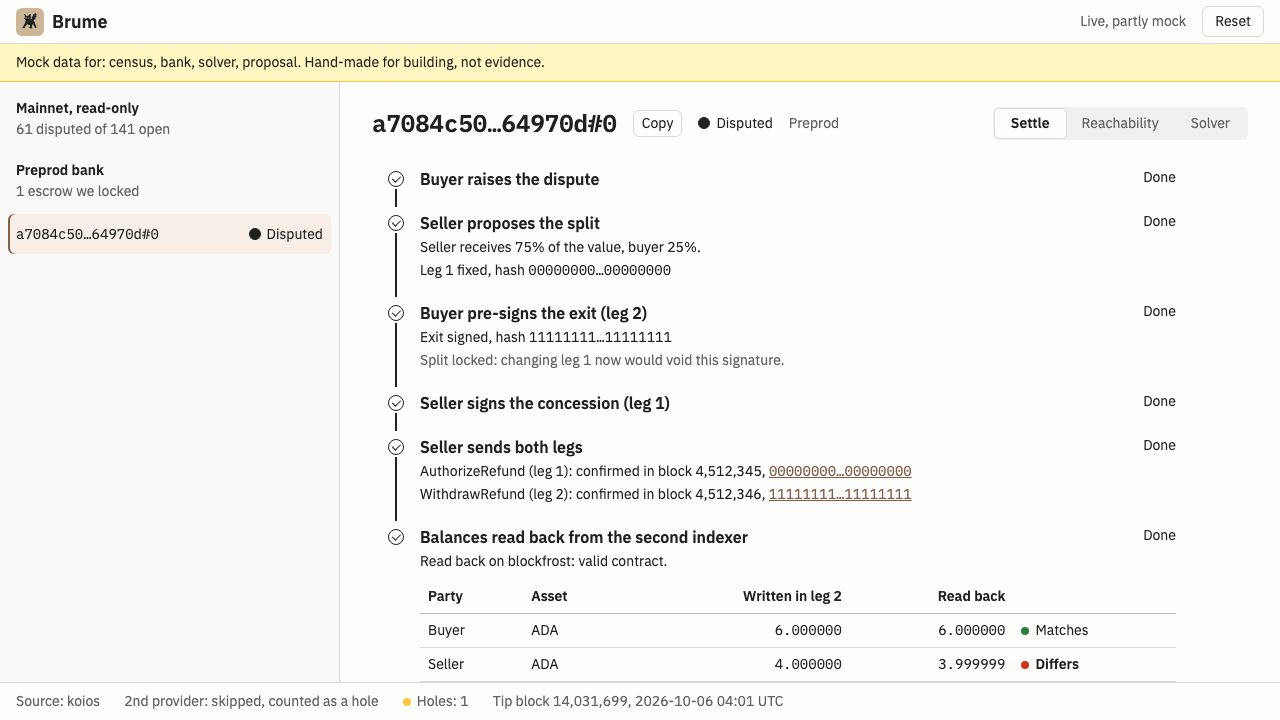
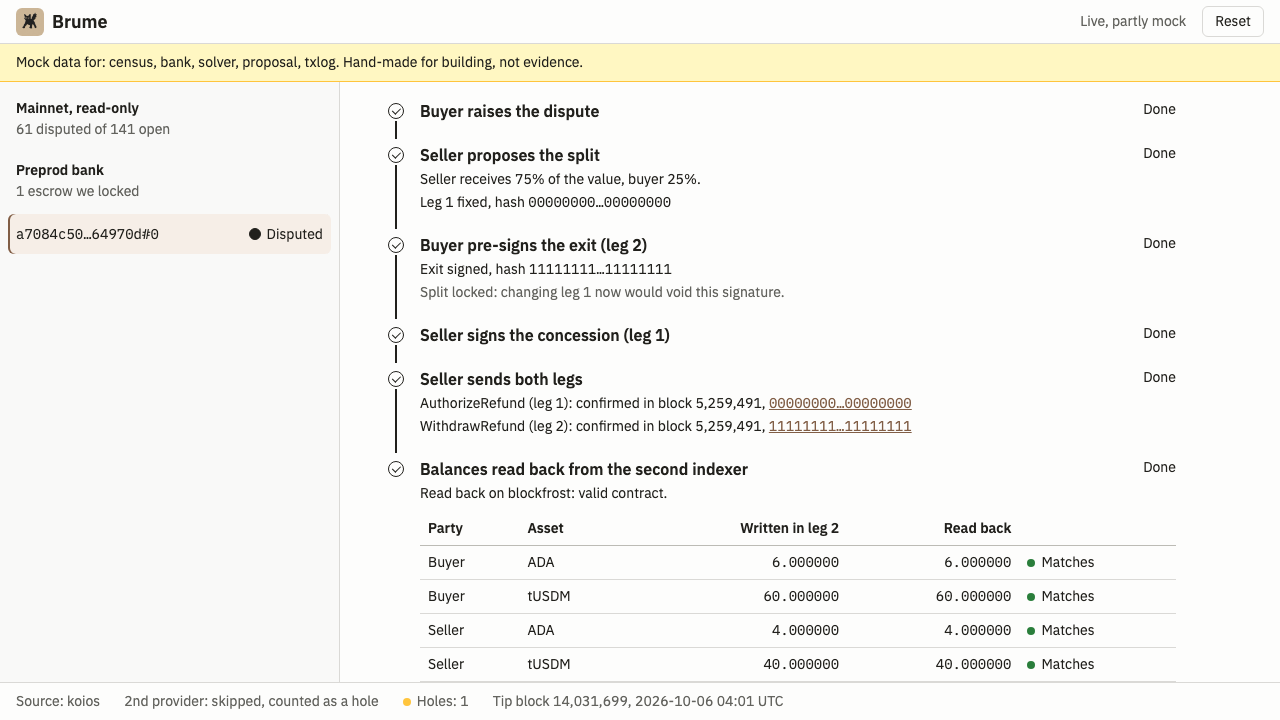
feat(ui): follow the 202 submit through the txlog, show agent errors as sentences, sign out/proposals files, token decimals

diff --git a/docs/app.js b/docs/app.js
@@ -43,10 +43,13 @@ async function load(kind, ref, net) {
   return json[kind] ?? json
 }
 
+// The agent answers errors as {"error": "<one readable sentence>"}, shown as is; a 202 (submit) has no body.
 async function post(path, body) {
   const res = await fetch(`/api/${path}`, { method: 'POST', headers: { 'content-type': 'application/json' }, body: JSON.stringify(body) })
-  if (!res.ok) throw new Error(`/api/${path} answered HTTP ${res.status}: ${await res.text()}`)
-  return res.json()
+  const text = await res.text()
+  const json = text && res.headers.get('content-type')?.includes('json') ? JSON.parse(text) : null
+  if (!res.ok) throw new Error(json?.error ?? (text || `/api/${path} answered HTTP ${res.status}`))
+  return json
 }
 
 // The preprod bank has no shared mock: in mock mode it is the escrow the mock proposal targets.
@@ -257,7 +260,8 @@ async function reachView(row) {
 
 /* Settle: SPEC-TRANSACTIONS §4 order, Carbon progress indicator glyphs, GOV.UK task-list statuses */
 
-const signCommand = role => `pnpm sign --role ${role} proposal.json`
+// The agent writes the proposal to out/proposals/<hash>_<index>.json ('#' → '_'); the seller's run also sends both legs.
+const signCommand = (role, ref) => `pnpm sign --role ${role} out/proposals/${ref.replace('#', '_')}.json`
 
 // Live m:ss since the current wait began. Each re-render makes a new span; the old one stops itself once detached.
 function elapsed(wait) {
@@ -347,7 +351,7 @@ function walletSign(wallet, role, ctx) {
 }
 
 function waitingFor(role, ctx) {
-  const cmd = signCommand(role)
+  const cmd = signCommand(role, ctx.row.ref)
   return h('div', { class: 'cmd' },
     h('code', { class: 'mono' }, cmd), copyButton(cmd),
     h('span', { class: 'hint' }, 'Waiting for the signed file', live && elapsed(ctx.wait)),
@@ -378,7 +382,8 @@ function sendButton(row, rerun) {
   const btn = h('button', { class: 'btn primary', type: 'button', disabled: !live, onclick: async () => {
     btn.disabled = true
     btn.textContent = 'Sending…'
-    try { rerun(await post(`proposal/${enc(row.ref)}/submit`, { escrowRef: row.ref })) }
+    // The agent answers 202 at once and submits in the background (1–2 min); progress arrives through GET /api/txlog.
+    try { await post(`proposal/${enc(row.ref)}/submit`, { escrowRef: row.ref }); rerun({ submitted: true }) }
     catch (x) { err.hidden = false; err.textContent = x.message; btn.disabled = false; btn.textContent = 'Send both legs' }
   } }, 'Send both legs')
   return h('div', {}, btn, !live && h('span', { class: 'hint' }, 'Runs in live mode'), err)
@@ -405,7 +410,8 @@ function settleSteps(row, proposal, log, rerun, band, wait) {
   const leg1 = entry('leg1')
   const leg2 = entry('leg2')
   const refused = [leg1, leg2].find(e => e?.status === 'refused')
-  const validTo = live && !leg1 && proposal?.leg1?.validToMs // countdown only matters until leg 1 is sent
+  const submitted = !leg1 && !leg2 && wait.submittedAt // 202 received, no leg in the txlog yet: no second Send button
+  const validTo = live && !leg1 && !submitted && proposal?.leg1?.validToMs // countdown only matters until leg 1 is sent
   const validity = validTo ? h('p', { class: 'hint' }, countdown(validTo, () => rerun())) : null
   const steps = [
     { label: 'Buyer raises the dispute', done: ['Disputed', 'RefundRequested'].includes(row.state) || !!proposal,
@@ -423,13 +429,15 @@ function settleSteps(row, proposal, log, rerun, band, wait) {
     { label: `${cap(conceder)} signs the concession (leg 1)`, done: signed(conceder), waiting: `Waiting for ${conceder}`,
       body: signed(conceder) ? [] : [waitingFor(conceder, ctx), validity] },
     { label: `${cap(conceder)} sends both legs`, done: !!(leg1?.block && leg2?.block), error: refused,
-      waiting: leg1 || leg2 ? 'Waiting for confirmation' : 'Ready to send',
+      waiting: leg1 || leg2 ? 'Waiting for confirmation' : submitted ? 'Submitted' : 'Ready to send',
       body: refused
         ? [h('p', {}, `${cap(refusal(refused))}. Start over on the next bank escrow.`)]
         : leg1 || leg2
           ? [[leg1, leg2].filter(Boolean).map(e => h('p', { class: 'hash' }, `${e.step}: `, h('span', { 'data-cue': e.block && `block ${e.step}` }, outcome(e)), ', ',
               h('span', { 'data-cue': `hash ${e.step}` }, txLink(e.txHash))))]
-          : [sendButton(row, rerun), validity] },
+          : submitted
+            ? [h('p', {}, 'Submitted to the agent. Waiting for the first leg to appear on preprod.')]
+            : [sendButton(row, rerun), validity] },
     { label: 'Balances read back from the second indexer', done: !!leg2?.readback, waiting: 'Waiting for read-back',
       body: leg2?.readback ? [
         h('p', {}, `Read back on ${leg2.readback.provider}: ${leg2.readback.validContract ? 'valid contract' : 'contract not valid'}.`),
@@ -444,13 +452,17 @@ function settleSteps(row, proposal, log, rerun, band, wait) {
   return steps
 }
 
-// One escrow's native quantities (DESIGN §10.1). ADA has 6 decimals; other tokens stay in base units until their decimals are pinned in shared/constants.ts.
+// One escrow's native quantities (DESIGN §10.1), in display units. A token missing here stays in base units.
+const DECIMALS = { lovelace: 6, [USDM]: 6, [TUSDM]: 6 } // = DECIMALS in shared/constants.ts (the browser cannot import it)
+
 function qty(unit, q) {
-  if (unit !== 'lovelace') return q.toLocaleString('en')
-  const sign = q < 0n ? '-' : ''
+  const d = DECIMALS[unit]
+  if (d === undefined) return q.toLocaleString('en')
+  const scale = 10n ** BigInt(d)
   const abs = q < 0n ? -q : q
-  return `${sign}${(abs / 1_000_000n).toLocaleString('en')}.${String(abs % 1_000_000n).padStart(6, '0')}`
+  return `${q < 0n ? '-' : ''}${(abs / scale).toLocaleString('en')}.${String(abs % scale).padStart(d, '0')}`
 }
+const unitLabel = unit => DECIMALS[unit] === undefined ? `${assetName(unit)} (base units)` : assetName(unit)
 
 // Carbon data-table pattern. What leg 2 wrote for each party (Proposal.payout) against what the second indexer reads back
 // (readback.balances, taken as the amount each party received from leg 2): the split landed as signed, or it did not.
@@ -462,7 +474,7 @@ function renderBalances(written, readBack) {
       const cue = col => `amount ${party} ${unit} ${col}`
       return h('tr', {},
         h('td', {}, cap(party)),
-        h('td', {}, unit === 'lovelace' ? 'ADA' : `${assetName(unit)} (base units)`),
+        h('td', {}, unitLabel(unit)),
         h('td', { class: 'num mono', 'data-cue': cue('written') }, qty(unit, w)),
         h('td', { class: 'num mono', 'data-cue': cue('read') }, qty(unit, r)),
         h('td', { class: w === r ? 'match ok' : 'match off' }, w === r ? 'Matches' : 'Differs'))
@@ -542,7 +554,6 @@ async function settleView(row) {
   const panel = h('div', { class: 'settle' })
   const solver = await load('solver', row.ref)
   const band = solver.ref === row.ref ? solver.bands.find(b => b.horizonDays === 30 && b.feasible !== false) : null
-  let sent = [] // the submit response, shown while GET /api/txlog has nothing for this escrow
   let shown = null // label of the step last scrolled into view
   const wait = { label: null, since: Date.now(), busy: false, errors: {} } // elapsed counter, wallet in progress, wallet errors per role
   let timer = 0 // one polling chain per panel, whoever triggers the re-render
@@ -553,10 +564,9 @@ async function settleView(row) {
     if (wait.busy && Date.now() - wait.busySince < 60_000) timer = setTimeout(poll, POLL_MS)
     else rerun().catch(() => { if (panel.isConnected) timer = setTimeout(poll, POLL_MS) }) // a failed read retries next cycle
   }
-  const rerun = async justSent => {
-    if (Array.isArray(justSent)) sent = justSent
-    const [proposal, fetched] = await Promise.all([load('proposal', row.ref), load('txlog', row.ref)])
-    const log = fetched.length ? fetched : sent
+  const rerun = async ({ submitted } = {}) => {
+    if (submitted) wait.submittedAt = Date.now()
+    const [proposal, log] = await Promise.all([load('proposal', row.ref), load('txlog', row.ref)])
     const mine = proposal?.escrowRef === row.ref ? proposal : null
     const steps = settleSteps(row, mine, log, rerun, band, wait)
     const waiting = steps.find(s => !s.done)?.label ?? null
@@ -571,10 +581,11 @@ async function settleView(row) {
     const label = now?.querySelector('.step-label').textContent ?? null
     if (now && label !== shown) requestAnimationFrame(() => now.scrollIntoView({ block: 'nearest' })) // only when the step changes, so polling never yanks the scroll
     shown = label
-    const waitingOnSignature = mine && (!mine.signedBy.includes('buyer') || !mine.signedBy.includes('seller'))
-    const confirming = mine && [mine.leg1, mine.leg2].some(leg => leg && log.some(e => e.txHash === leg.txHash && pending(e)))
+    // Poll until the flow ends: signatures dropped by file, a send made outside the page (the seller's pnpm sign sends both legs),
+    // the background submit, the blocks, the read-back. A refusal or an expired leg 1 stops it.
+    const ended = steps.every(s => s.done) || steps.some(s => s.error)
     clearTimeout(timer)
-    if (live && (waitingOnSignature || confirming)) timer = setTimeout(poll, POLL_MS) // picks up a dropped signature file, then the blocks
+    if (live && mine && !ended) timer = setTimeout(poll, POLL_MS)
   }
   await rerun()
   return panel
@@ -591,7 +602,7 @@ function perAsset(terms, value) {
   return units.map(u => {
     const q = Number(terms[u] ?? 0)
     if (value?.[u]) return q === 0 ? `nothing of the ${assetName(u)}` : `${pct(q / Number(value[u]))} of the ${assetName(u)}`
-    return `${q.toLocaleString('en')} ${u === 'lovelace' ? 'lovelace' : `${assetName(u)} base units`}`
+    return `${qty(u, BigInt(terms[u] ?? 0))} ${unitLabel(u)}`
   }).join(', ')
 }
 

diff --git a/docs/DESIGN.md b/docs/DESIGN.md
@@ -101,7 +101,7 @@ Left-aligned throughout. List 340 px, detail fills the rest. The view switch sit
 
 | Screen / component | PLAN v3 | Notes |
 |---|---|---|
-| Shell: top bar, mode badge, Reset, provenance footer | MUST M-9 | Reset clears UI state and selects the next unused bank escrow (on-chain state cannot be undone; the bank absorbs takes) |
+| Shell: top bar, mode badge, Reset, provenance footer | MUST M-9 | Reset returns to the start of the demo (the first disputed mainnet escrow). A settled bank escrow is spent and drops out of `GET /api/bank`, so the next unused one is always first in the Preprod bank group |
 | Escrow list grouped by network | MUST M-9 | mainnet disputed (read-only) + preprod bank (6–8) with their status |
 | Escrow header: ref, state, network, datum on demand | MUST M-9 | 16-field datum in a disclosure, not on screen by default |
 | Reachability grid + cell popover | MUST M-3, M-9 | 21 verdicts; popover: deciding guards, output rules, rung |
@@ -141,7 +141,7 @@ Left-aligned throughout. List 340 px, detail fills the rest. The view switch sit
 | Step state | Treatment |
 |---|---|
 | not started | hollow circle, ink-2 label |
-| awaiting signature | tan row, the exact command with a Copy button, "Waiting for the signed file" and a live elapsed time; the UI polls the agent |
+| awaiting signature | tan row, the exact command (`pnpm sign --role <role> out/proposals/<hash>_<index>.json`) with a Copy button, "Waiting for the signed file" and a live elapsed time; the UI polls the agent until the flow ends, so a send made outside the page (the seller's `pnpm sign` sends both legs) is picked up |
 | signed | check, the body hash in mono |
 | proposal locked | from the moment leg 2 is signed, the share, fee and validity bounds are read-only and shown with a lock: any change to leg 1 changes its hash and voids leg 2. Changing the split means "Start over" (new proposal, both signatures again) |
 | leg 1 expiring | live countdown on `leg1.validToMs` (about 20 min after prepare) in the signing and send steps |
@@ -155,7 +155,7 @@ Left-aligned throughout. List 340 px, detail fills the rest. The view switch sit
 
 ## 8. Data contract
 
-`shared/types.ts` lands at M0; these are PLAN v3 §4 shapes, re-checked field by field at M0. In live mode the UI calls the agent's API (`src/agent`, built in the back-end session; the routes below are this side's request to it). In read-only mode the same shapes come from `docs/data/*.json`. Routes take the ref as a query parameter (`?ref=`, URL-encoded) because refs contain `#`. Snapshot mode reads `docs/data/<kind>.json`; mock mode reads `shared/mock/*.mock.json` and needs the repo root served (local only). Every response may be the bare object or wrapped under its kind (`{"grid": …}`), as the mocks are.
+`shared/types.ts` lands at M0; these are PLAN v3 §4 shapes, re-checked field by field at M0. In live mode the UI calls the agent's API (`src/agent`, built in the back-end session; the routes below are this side's request to it). In read-only mode the same shapes come from `docs/data/*.json`. Routes take the ref as a query parameter (`?ref=`, URL-encoded) because refs contain `#`. Errors come back as `{"error": "<one readable sentence>"}` and the UI shows the sentence as is. Snapshot mode reads `docs/data/<kind>.json`; mock mode reads `shared/mock/*.mock.json` and needs the repo root served (local only). Every response may be the bare object or wrapped under its kind (`{"grid": …}`), as the mocks are.
 
 **Datum, 16 fields** (SPEC-TRANSACTIONS §0, in order): `buyer`, `seller` (nested addresses), `reference_key`, `reference_signature`, `seller_nonce`, `buyer_nonce`, `collateral_return_lovelace`, `input_hash`, `result_hash`, `pay_by_time`, `submit_result_time`, `unlock_time`, `external_dispute_unlock_time`, `seller_cooldown_time`, `buyer_cooldown_time`, `state`. Times are milliseconds. The header shows `state`, whether `result_hash` is empty, and the four clocks that gate the grid (`submit_result_time`, `unlock_time`, `external_dispute_unlock_time`, both cooldowns) as relative time ("opened 318 days ago") with the UTC timestamp on hover; the rest sits in the datum disclosure.
 
@@ -167,9 +167,9 @@ Left-aligned throughout. List 340 px, detail fills the rest. The view switch sit
 | Try anyway | `TxLogEntry` from `tryAnyway(escrowRef, redeemer, role)` | `POST /api/try` `{escrowRef, redeemer, role}` → `TxLogEntry`; preprod escrows only, never offered on mainnet |
 | Settle | `Proposal {escrowRef, sellerShare, solverBand, leg1?, leg2?, signatures}` from `prepare` / `sign` | `POST /api/proposal` `{escrowRef, sellerShare}`; `GET /api/proposal/<ref, URL-encoded>` polled every 2 s while a signature is missing (404 = no proposal yet) |
 | Wallet signature (S-3) | witness set from `api.signTx(leg.cborHex, true)` | `POST /api/proposal/<ref>/witness` `{role, leg: 1 | 2, witnessSet}` → `witness(proposal, role, leg, witnessSetCbor)` (stream A, A5): the agent merges and verifies the witness, refuses a wrong key or a changed hash. Who signs which leg follows `proposal.path`: on B the buyer signs leg 2, the seller leg 1 and leg 2 (its funding inputs); A is mirrored |
-| Send + balances | `TxLogEntry[]` from `submit(Proposal)`, `readback` | `POST /api/proposal/<ref>/submit`; `GET /api/txlog?ref=<ref>` (requested; 404 = no run yet) |
+| Send + balances | `TxLogEntry[]` from `submit(Proposal)`, `readback` | `POST /api/proposal/<ref>/submit` answers 202 and submits in the background (1–2 min): the step shows "Submitted" with no second Send button; progress comes from `GET /api/txlog?ref=<ref>` → `{txlog}` (404 = no run yet), pending then confirmed |
 | Solver | `SolverOutput` | `GET /api/solver?ref=<ref>` |
-| Preprod bank list | `{ref, state}[]` | `GET /api/bank` (requested; 404 = empty bank) |
+| Preprod bank list | `{ref, state}[]` | `GET /api/bank` → `{bank}` (escrows whose buyer and seller are the DEMO.md wallets; a provider hole is an error, never an empty list) |
 | Job result link | `JobResult` (verdict + split + UI link) | `uiUrl` = `…/?escrow=<ref, URL-encoded>`; the UI also accepts the raw `#<index>` landing in the fragment |
 
 **Interface requests** (to propose in PLAN.md with a §11 entry; not applied here):
